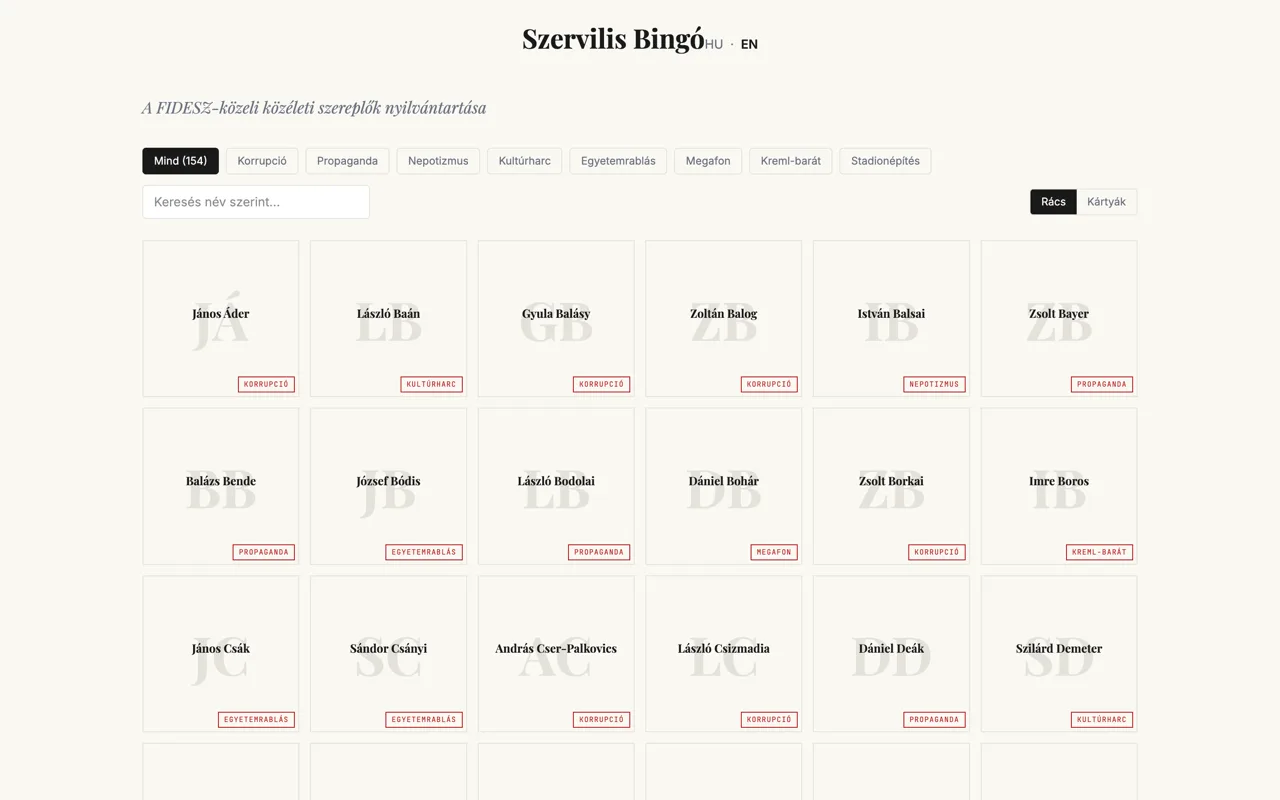
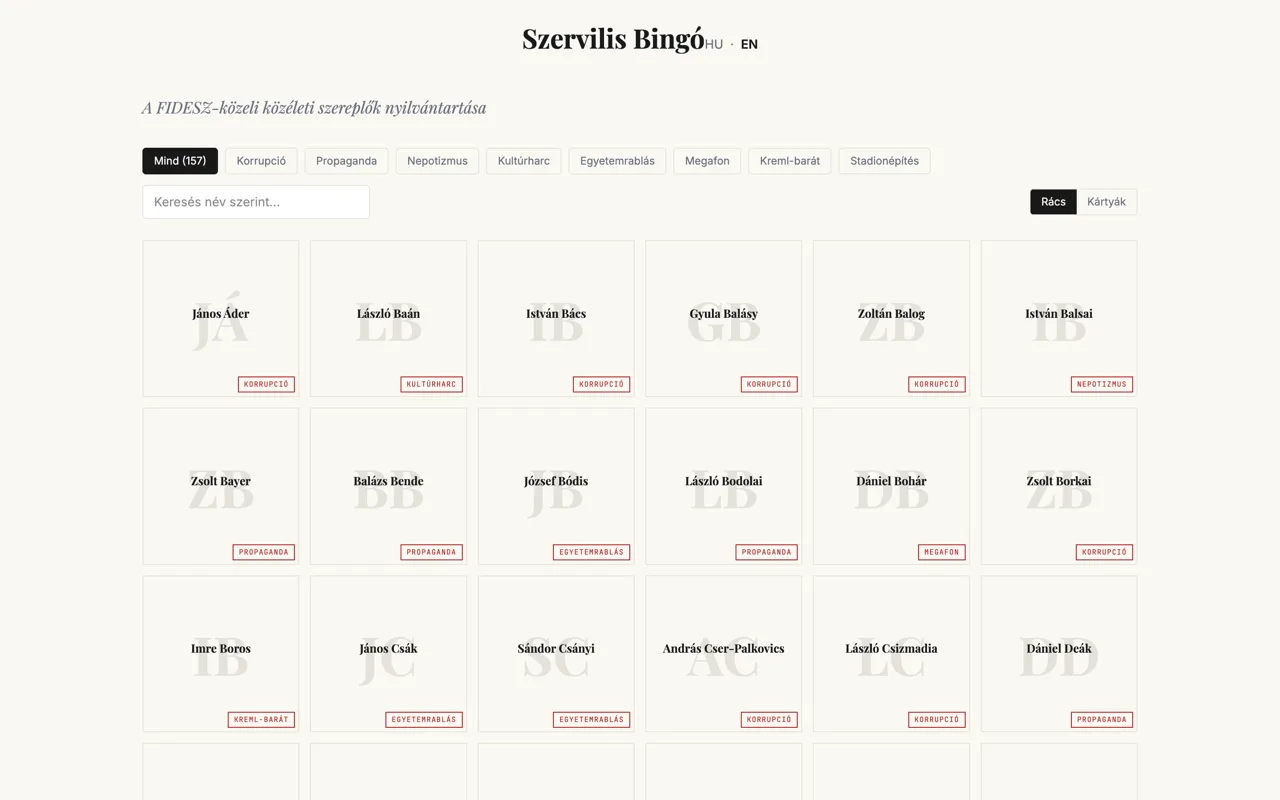
Szervilis Bingó is 157 after the last three entries cleared verification
Claude-Session: https://claude.ai/code/session_01Aqw8DEncNozu5hH3bvwFR6

diff --git a/things.html b/things.html
@@ -150,7 +150,7 @@
                     <div class="entry-year">2025</div>
                     <div>
                         <h3>Szervilis Bingó</h3>
-                        <p>A public register of people who made themselves useful to FIDESZ, and what it cost the rest of us. A hundred and fifty-four entries, each tagged by what they did — corruption, propaganda, nepotism, culture war, stadium building — and searchable by name.</p>
+                        <p>A public register of people who made themselves useful to FIDESZ, and what it cost the rest of us. A hundred and fifty-seven entries, each tagged by what they did — corruption, propaganda, nepotism, culture war, stadium building — and searchable by name.</p>
                         <p>It is played as a bingo card because the pattern is the point: once you have seen the same handful of names appear behind the same handful of decisions, the card fills itself. The tone is light. The sourcing is not: every claim carries the article it came from, and the entries that could not be stood up — a fabricated figure here, a quote nobody actually said there — were thrown out rather than softened.</p>
                         <p>No photographs. Too many of the ones it started with were of the wrong person, and on a register that names people and states what they did, a misattributed face is the one mistake you cannot leave standing.</p>
                         <figure class="entry-preview is-site">
